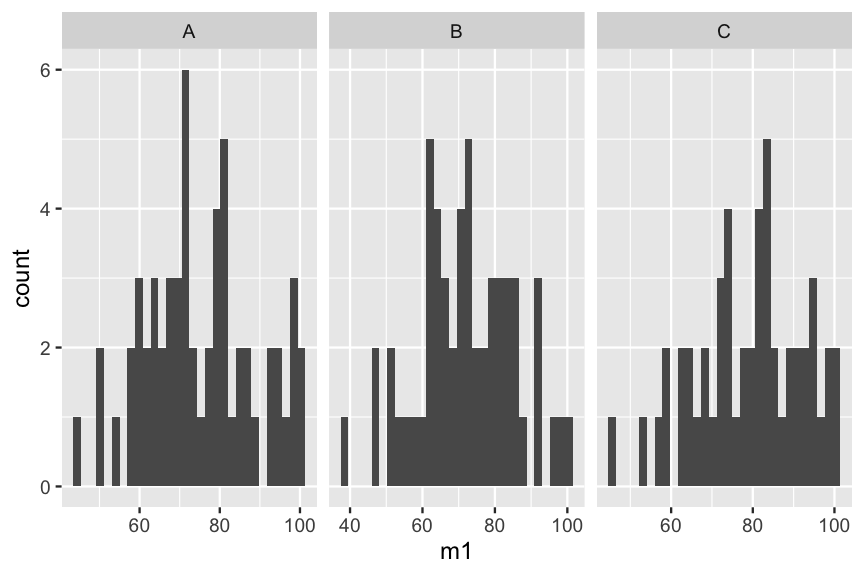
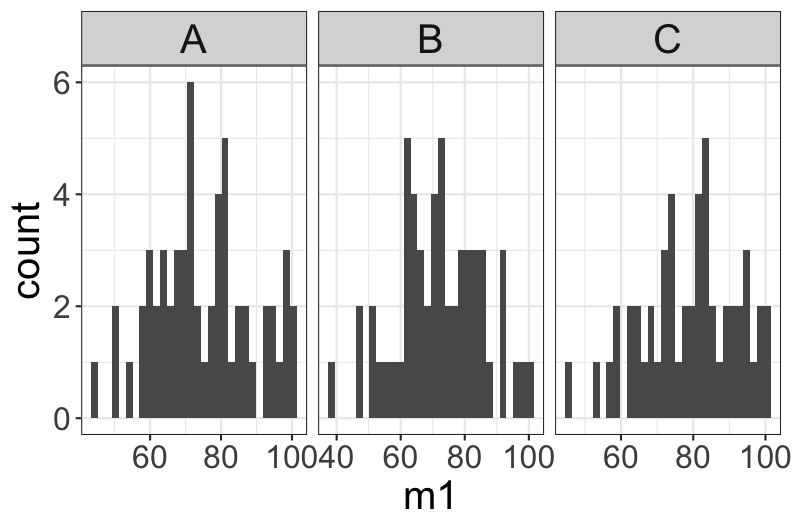
Add files via upload

diff --git a/teaching/STA35B/Lecture/lec22.html b/teaching/STA35B/Lecture/lec22.html
@@ -58,7 +58,7 @@ Must check three conditions on the data before performing ANOVA:
 ### Example
 College departments often run multiple sections of the same intro course each semester due to high demand.
 
-* Consider a statistics department that runs three sections of an introductory statistics course.
+* Consider three sections of an intro stats course.
 * Are there substantial differences in first exam scores in these three sections (A, B, and C)?
 * Describe appropriate hypotheses to determine if there are any differences between the three sections.
 
@@ -97,13 +97,15 @@ Look at data below; does it look like the differences in group means could come 
 &lt;!--   scale_y_continuous(breaks=seq(-10, 10, by=2)) + --&gt;
 &lt;!--   facet_wrap(~group2, nrow = 1, scales = "free_x") + --&gt;
 &lt;!--   labs(x = "Group", y = "Outcome") + --&gt;
-&lt;!--   theme(strip.text = element_text(size=20), axis.text = element_text(size=20), axis.title=element_text(size=20)) --&gt;
+&lt;!--   theme(strip.text = element_text(size=20), axis.text = element_text(size=16), axis.title=element_text(size=20)) --&gt;
 &lt;!-- ``` --&gt;
 
 &lt;div class="figure" style="text-align: center"&gt;
 &lt;img src="lec22_files/figure-html/fig-toyANOVA-1.png" alt="Data shown as points. Crosses indicate group means." width="432" /&gt;
 &lt;p class="caption"&gt;Data shown as points. Crosses indicate group means.&lt;/p&gt;
 &lt;/div&gt;
+
+- group I has same center as group IV;&lt;br&gt; group II has same center as group V;&lt;br&gt; group III has same center as group VI.
 ]
 
 --
@@ -158,13 +160,13 @@ For within-group variability, consider the&lt;br&gt; **sum of squares errors (SS
 .pull-right[
 
 SSG: variability of group means (weighted by group size)
-&lt;img src="lec22_files/figure-html/unnamed-chunk-2-1.png" width="432" style="display: block; margin: auto;" /&gt;
+&lt;img src="lec22_files/figure-html/unnamed-chunk-2-1.png" width="396" style="display: block; margin: auto;" /&gt;
 
 
 SSE: variability within each group
 
 &lt;div class="figure" style="text-align: center"&gt;
-&lt;img src="lec22_files/figure-html/unnamed-chunk-3-1.png" alt="Data shown as points. Crosses indicate group means." width="432" /&gt;
+&lt;img src="lec22_files/figure-html/unnamed-chunk-3-1.png" alt="Data shown as points. Crosses indicate group means." width="396" /&gt;
 &lt;p class="caption"&gt;Data shown as points. Crosses indicate group means.&lt;/p&gt;
 &lt;/div&gt;
 
@@ -184,7 +186,7 @@ SSE: variability within each group
 &lt;!--   scale_y_continuous(breaks=seq(-10, 10, by=2)) + --&gt;
 &lt;!--   facet_wrap(~group2, nrow = 1, scales = "free_x") + --&gt;
 &lt;!--   labs(x = NULL, y = "Outcome") + --&gt;
-&lt;!--   theme(strip.text = element_text(size=20), axis.text = element_text(size=20), axis.title=element_text(size=20)) --&gt;
+&lt;!--   theme(strip.text = element_text(size=20), axis.text = element_text(size=16), axis.title=element_text(size=20)) --&gt;
 &lt;!-- ``` --&gt;
 ]
 
@@ -245,14 +247,15 @@ Let's now do a randomization test using this F statistic to see if the differenc
 #### Example: class data
 &lt;!-- Recall the exams data which demonstrated a two-sample randomization test for a comparison of means. --&gt;
 
-Suppose a teacher gave three versions (A, B, C) of the same exam.
+A teacher gave three versions (A, B, C) of an exam.
 
-* We provide a summary of the data including version C in table and boxplot to the right.
-* Want to investigate whether the exam difficulty is the same across the three versions.
-* Hypothesis test:
+* Data is summarized in table/plot to the right.
+* Is the exam difficulty the same across the three versions?
 
-  -   `\(H_0: \mu_A = \mu_B = \mu_C.\)` The inherent average difficulty is the same across the three versions
-  -   `\(H_A:\)` not `\(H_0.\)` At least one version is inherently more (or less) difficult than the others.
+Hypothesis test:
+
+-   `\(H_0\)`: All three versions are equally difficult. `$$\mu_A = \mu_B = \mu_C$$`
+-   `\(H_A\)`: not `\(H_0.\)` At least one version is inherently more (or less) difficult than the others.
 
 ]
 
@@ -260,7 +263,7 @@ Suppose a teacher gave three versions (A, B, C) of the same exam.
 &lt;table class="table table-striped table-condensed" style="color: black; width: auto !important; margin-left: auto; margin-right: auto;"&gt;
  &lt;thead&gt;
   &lt;tr&gt;
-   &lt;th style="text-align:left;"&gt; Exam &lt;/th&gt;
+   &lt;th style="text-align:left;"&gt; Version &lt;/th&gt;
    &lt;th style="text-align:center;"&gt; n &lt;/th&gt;
    &lt;th style="text-align:center;"&gt; Mean &lt;/th&gt;
    &lt;th style="text-align:center;"&gt; SD &lt;/th&gt;
@@ -298,7 +301,7 @@ Suppose a teacher gave three versions (A, B, C) of the same exam.
 
 
 
-&lt;img src="lec22_files/figure-html/fig-boxplotThreeVersionsOfExams-1.png" width="432" /&gt;
+&lt;img src="lec22_files/figure-html/fig-boxplotThreeVersionsOfExams-1.png" width="432" style="display: block; margin: auto;" /&gt;
 
 ]
 
@@ -306,9 +309,11 @@ Suppose a teacher gave three versions (A, B, C) of the same exam.
 ---
 
 .pull-left[
-Idea of the randomization test with many means is the same as in two means
+Randomization test with *many* means: 
 
-- The version of the test (A or B or C) is randomly allocated to the test scores, under the null assumption that the tests are equally difficult.
+- Idea is the same as in *two* means.
+- Null assumption: versions are equally difficult.
+- Exam version (A or B or C) is randomly allocated to the exam scores, under the null assumption.
 
 &lt;img src="randANOVA.png" width="100%" /&gt;
 
@@ -318,11 +323,16 @@ Idea of the randomization test with many means is the same as in two means
 
 .pull-right[
 
-Since the groups are randomized, the population means under the randomization are the same, so we can see the types of outcomes that result from pure random sampling
+&lt;!-- Since the groups are randomized, the population means under the randomization are the same, so we can see the types of outcomes that result from pure random sampling --&gt;
 
 &lt;img src="lec22_files/figure-html/fig-rand3exams-1.png" width="90%" style="display: block; margin: auto;" /&gt;
-* Our data's observed test statistic had `\(F = 3.48\)`
-* We see this is quite unlikely due to chance - in this randomization test, fewer than 3% of instances where means are equal produce this (or more) extreme of a value.
+- 297 of 10,000 simulations had an F statistic greater than or equal to the observed value 3.48.
+- p-value 0.0297 is below 0.05, so we reject `\(H_0\)`.
+- Conclusion: our observed value is unlikely due to chance if null assumption is true.
+
+&lt;!-- - Randomization test p-value is then 0.0297 --&gt;
+&lt;!-- * Our data's observed test statistic had `\(F = 3.48\)` --&gt;
+&lt;!-- * We see this is quite unlikely due to chance - in this randomization test, fewer than 3% of instances where means are equal produce this (or more) extreme of a value. --&gt;
 ]
 
 ---
@@ -386,7 +396,7 @@ Why do we care about the F-distribution?
 &lt;table class="table table-striped table-condensed" style="color: black; width: auto !important; margin-left: auto; margin-right: auto;"&gt;
  &lt;thead&gt;
   &lt;tr&gt;
-   &lt;th style="text-align:left;"&gt; Exam &lt;/th&gt;
+   &lt;th style="text-align:left;"&gt; Version &lt;/th&gt;
    &lt;th style="text-align:center;"&gt; n &lt;/th&gt;
    &lt;th style="text-align:center;"&gt; Mean &lt;/th&gt;
    &lt;th style="text-align:center;"&gt; SD &lt;/th&gt;
@@ -481,7 +491,7 @@ Is this p-value valid? Need to check conditions:
 - Approximate normality - when sample size is large and no extreme outliers, then this is ok
 - Approximately constant variance - each group has approximately the same variance
 
-&lt;img src="lec22_files/figure-html/unnamed-chunk-12-1.png" width="432" style="display: block; margin: auto;" /&gt;
+&lt;img src="lec22_files/figure-html/unnamed-chunk-12-1.png" width="396" style="display: block; margin: auto;" /&gt;
 
 * Thus, we can use to reject `\(H_0\)`, which we do because it is smaller than 0.05
 
@@ -599,7 +609,7 @@ Conditions for F statistic/ANOVA analysis
 - Approximately constant variance - variance within each group is approximately the same across groups
 ]
 .pull-right[
-&lt;img src="lec22_files/figure-html/unnamed-chunk-16-1.png" width="432" /&gt;
+&lt;img src="lec22_files/figure-html/unnamed-chunk-16-1.png" width="432" style="display: block; margin: auto;" /&gt;
 * Does appear to be approximately normal, no extreme outliers
 * We see that variability across the groups is quite similar
 * So our F statistic analysis can proceed
